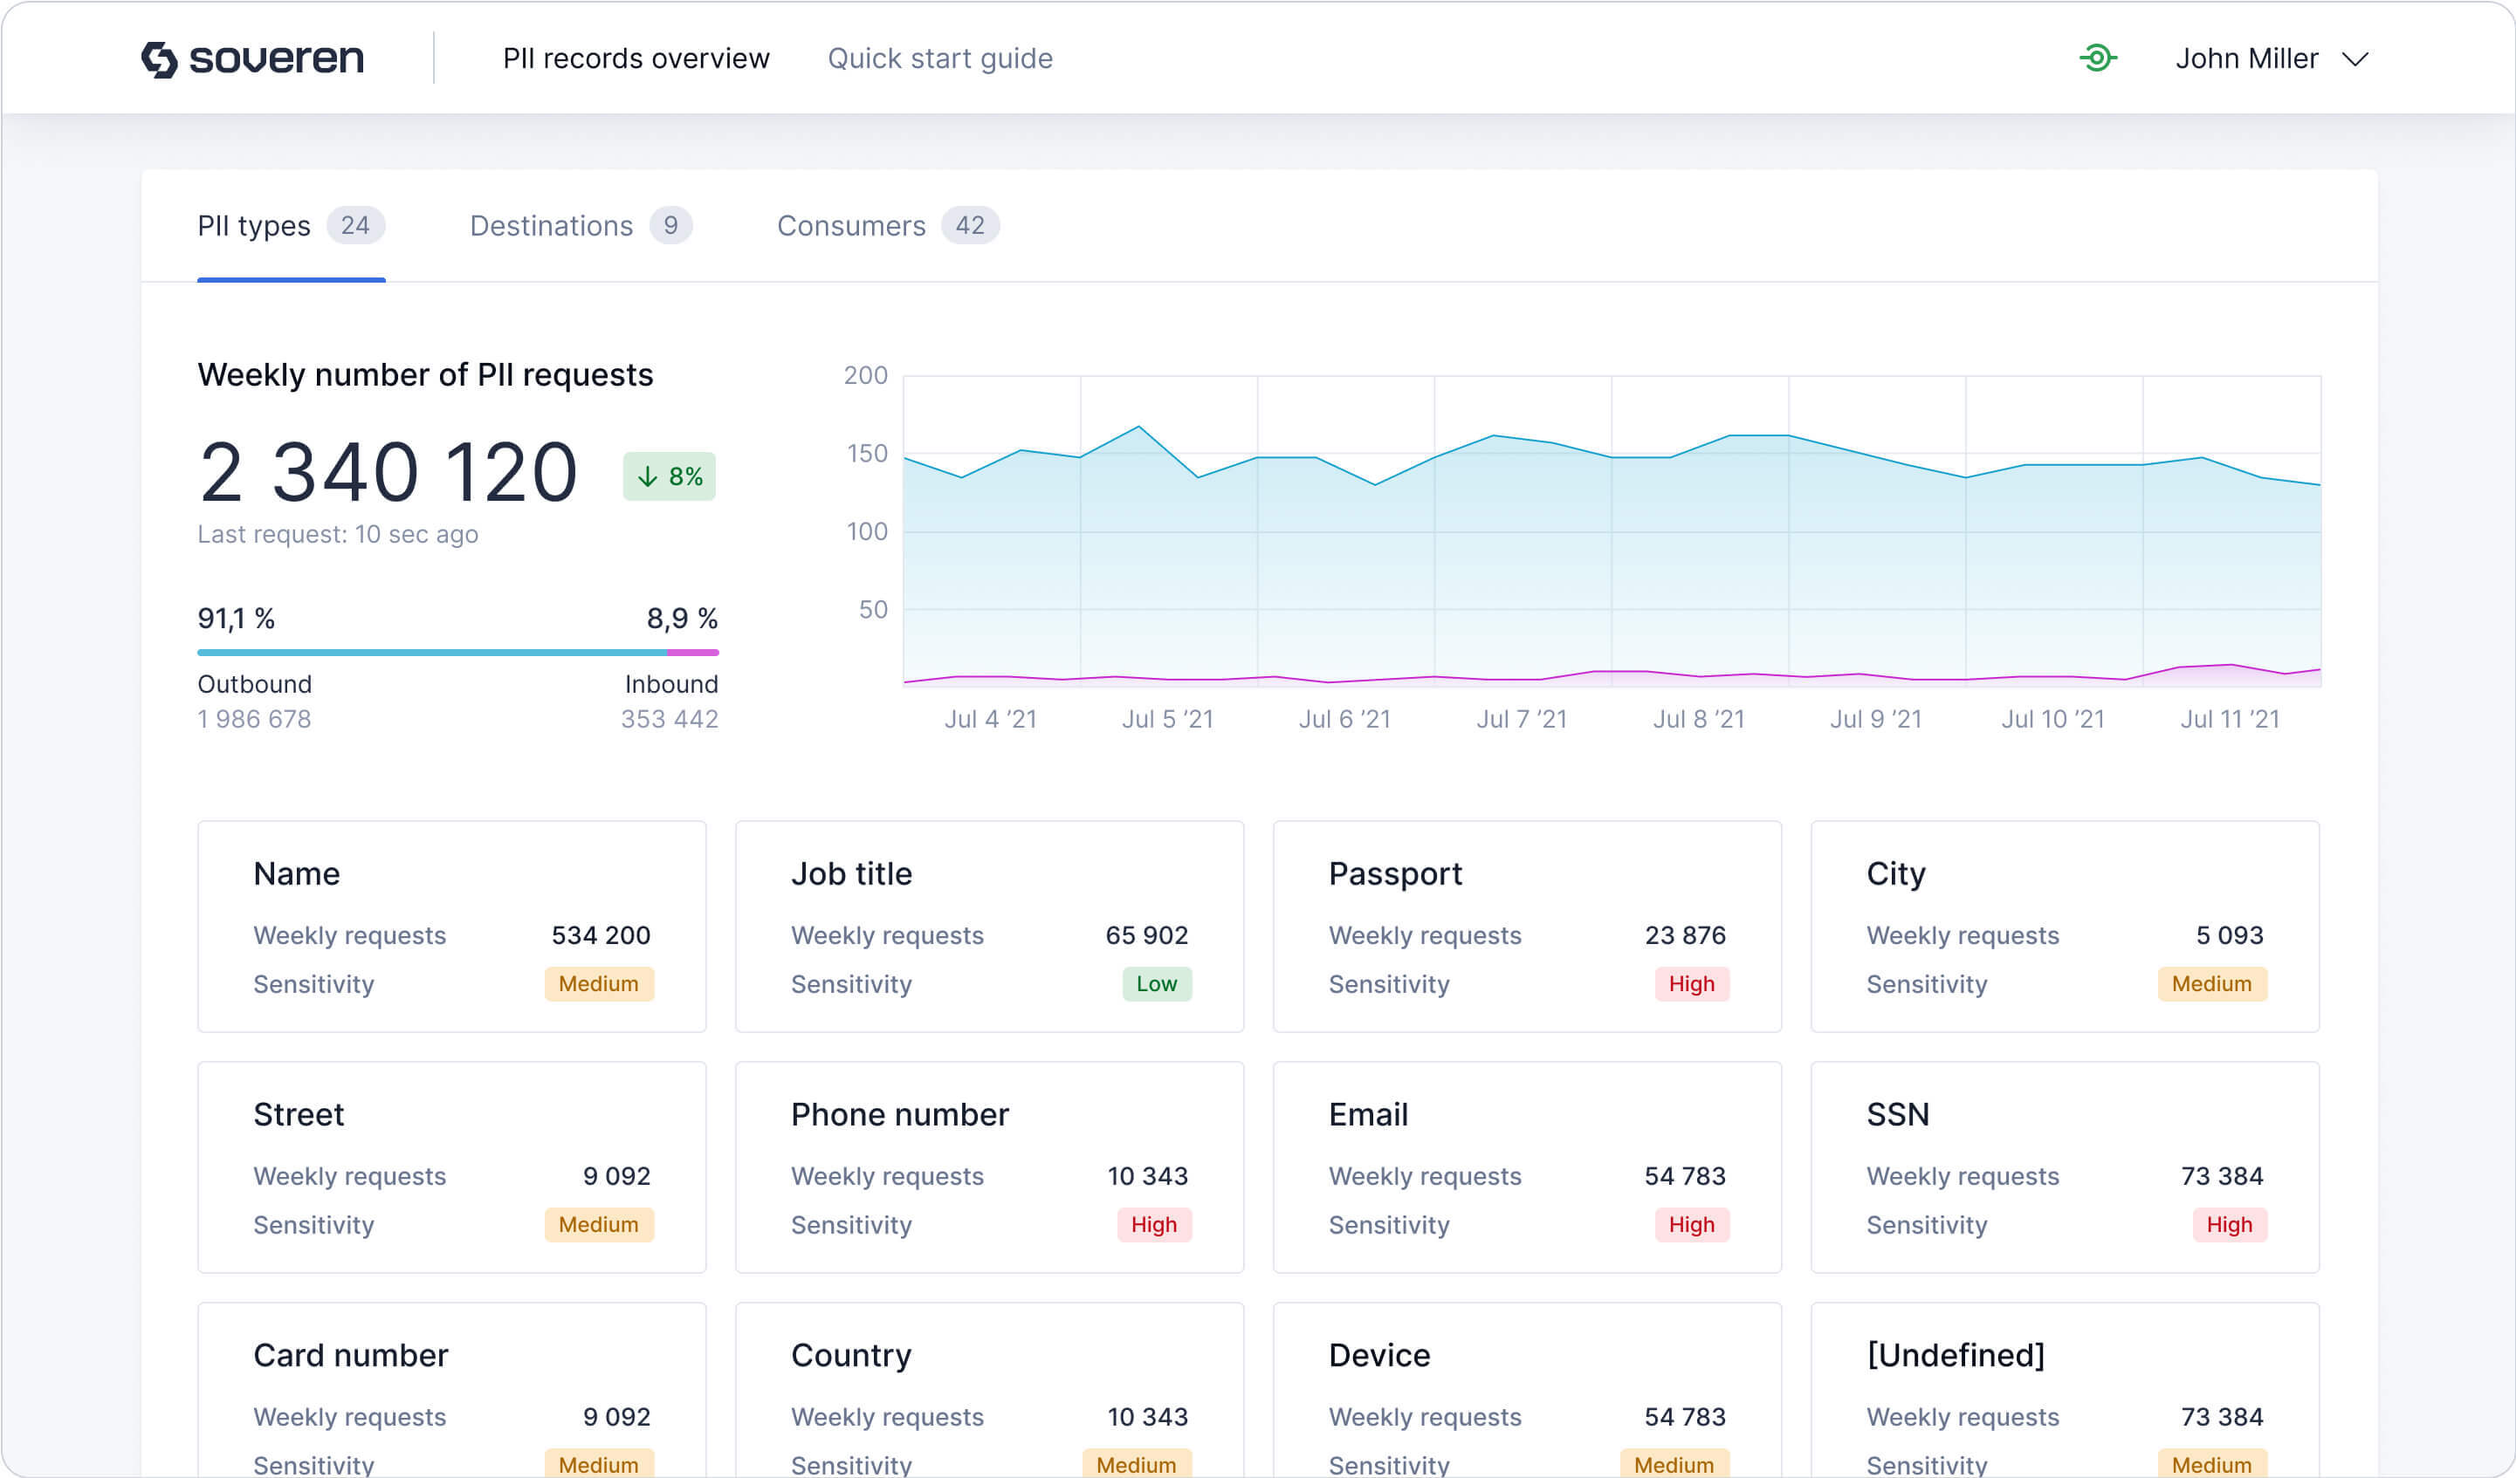
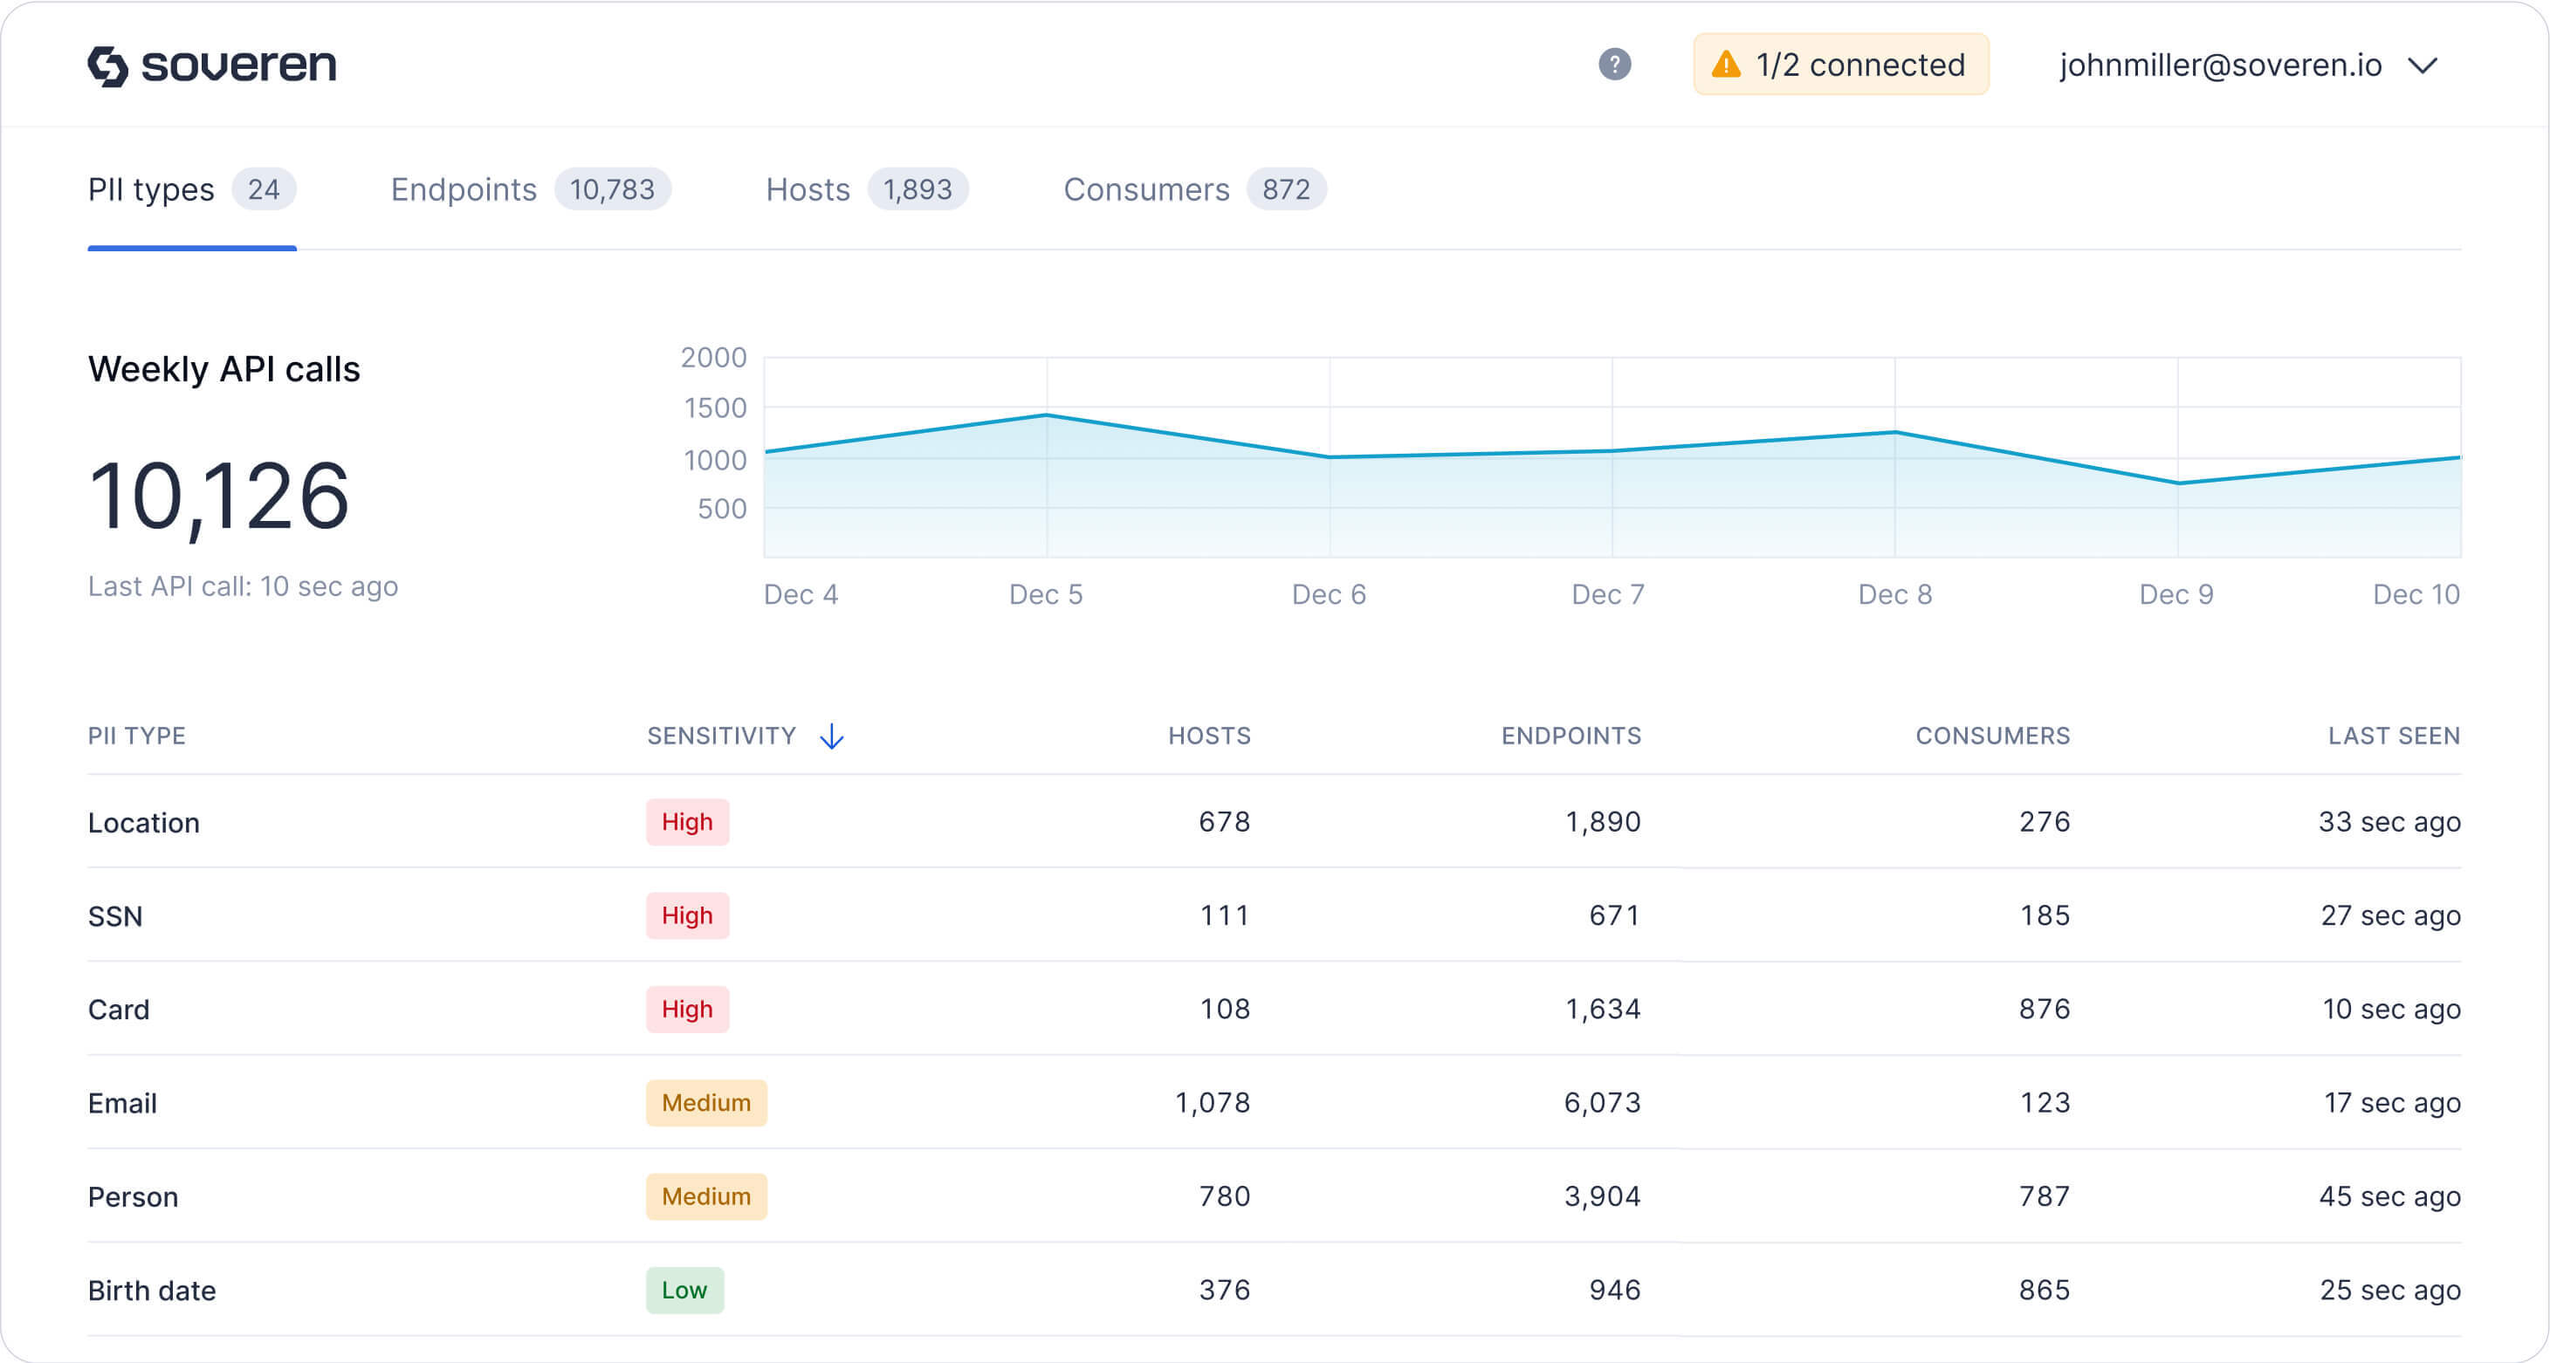
update dashboard image in index.md, amend overview.md with more details and a PII types dashboard screenshot

diff --git a/docs/dashboards/overview.md b/docs/dashboards/overview.md
@@ -1,8 +1,6 @@
 # Overview
 
-
 Soveren provides a number of dashboards that address the following questions:
-
 
 * What personal data types are collected?
 * Which data types are the most important?
@@ -13,7 +11,30 @@ Soveren provides a number of dashboards that address the following questions:
 * Which APIs provide access to personal data?
 * Which data is revealed in the calls?
 
-To access the dashboards, [log in to your Soveren account](https://app.soveren.io/pii-types).
+When you visit [your Soveren account](https://app.soveren.io/pii-types) you first see an overview of the personal data detected in your environment and the gateways created for your account.
+
+![PII dashboard](../../img/dashboards/pii-types-overview.jpg "PII dashboard")
+
+The gateway status next to your account name shows how many gateways you created and which of them you have actually set up and connected to your environment.
+
+The tabs are dashboard groups that give you a deeper view into the data grouping it by:
+
+* *PII types* detected in your environment. See the currently supported types.
+* *Endpoints* represent all events with a unique combination of a Host header, URL, and HTTP request method.
+* *Hosts* that host the endpoints; determined by the Host header value in a request or response.
+* *Consumers* that call the endpoints for data. A consumer is determined by the client's IP address in the header.
+
+
+Important details about the content that you may see on the dashboards:
+
+* Soveren gateway does not send any personal data outside your environment, so everything you see on the dashboards is just metadata about the data analyzed in your environment.
+* The dashboards give you an overview of the last 7 days. Data older than 7 days is discarded.
+* Sometimes you may see calls to hosts and endpoints that don't actually exist in your environment, resulting in response codes 4xx or 5xx. These are made by robots crawling the internet or by hackers trying to find vulnerabilities in the internet resources.
+* In API call details, you may see an empty request or response, or both if the detection component failed to find any personal data or if masking the found data failed. You may also see empty JSON body {} for the requests and/or responses with the content-type not supported by Soveren gateway (currently, everything other than application/json). 
+
+
+
+
 
 
 
